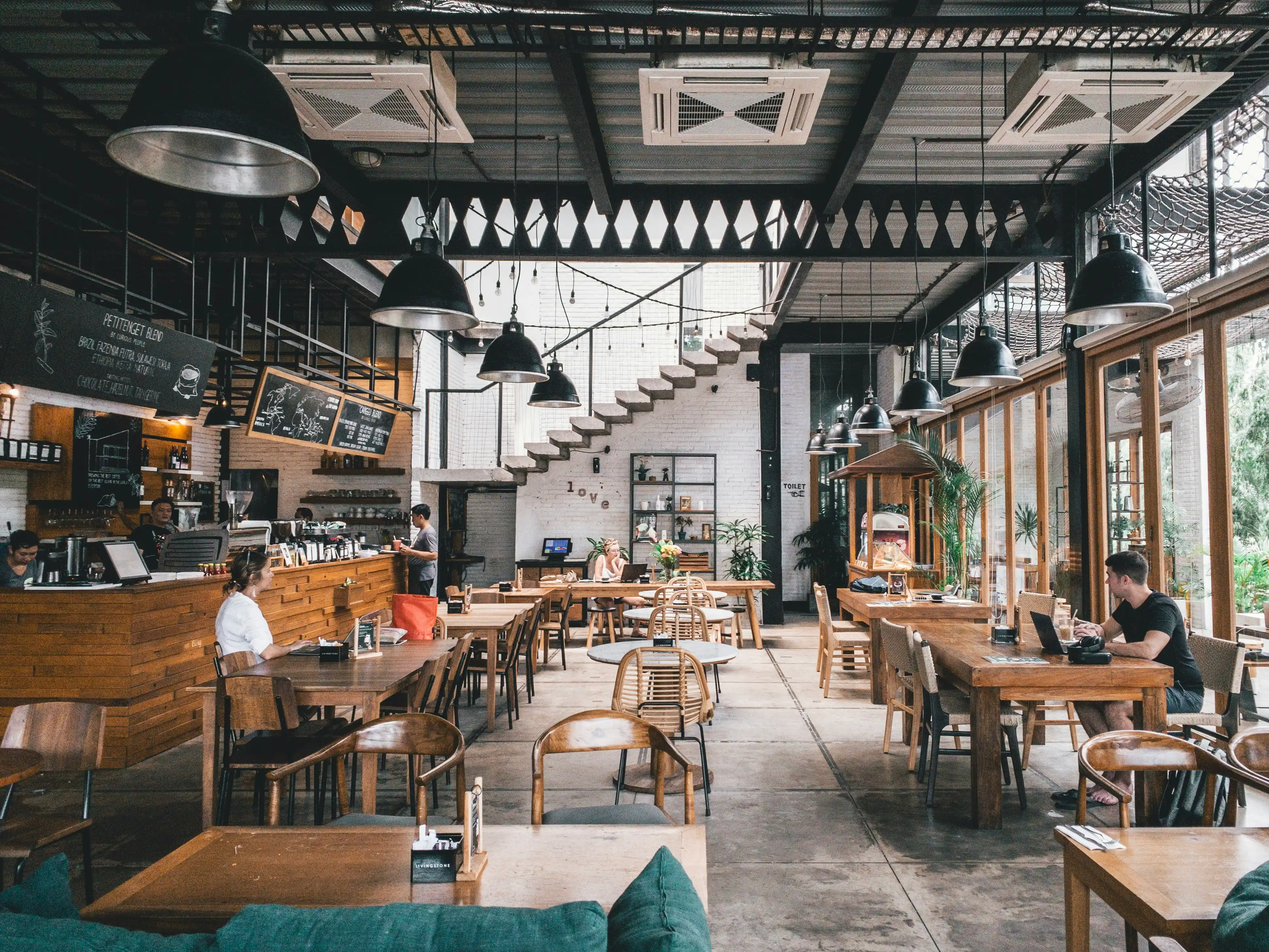
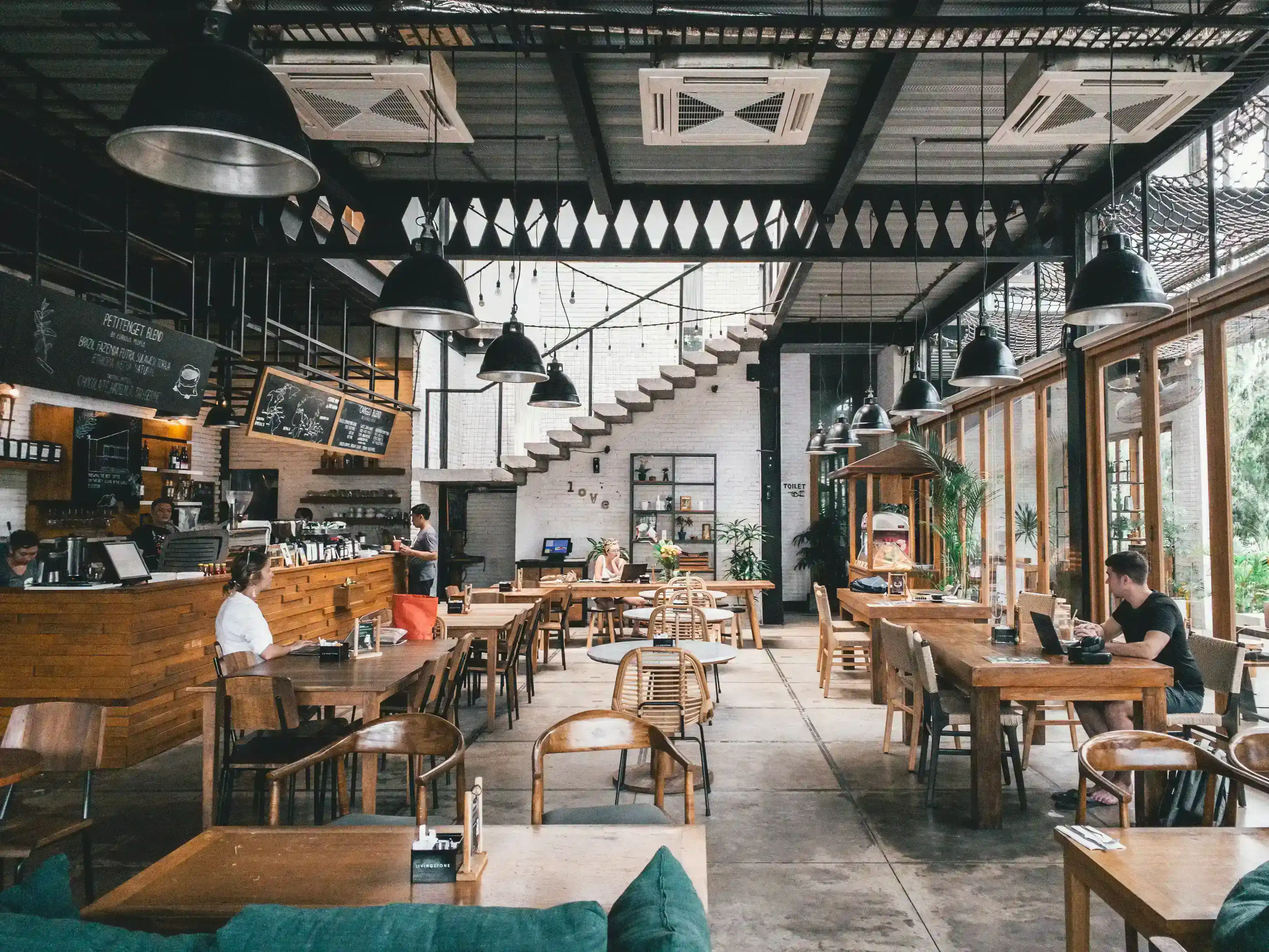
readded compressed hero image

diff --git a/backgroundcode/templates/base.html b/backgroundcode/templates/base.html
@@ -13,9 +13,6 @@
     <link href="https://fonts.googleapis.com/css2?family=Lato:wght@300;700&display=swap" rel="stylesheet">
     <!-- Font Awesome CSS -->
     <link rel="stylesheet" href="https://cdnjs.cloudflare.com/ajax/libs/font-awesome/5.15.3/css/all.min.css">
-    <!-- Bootstrap CSS -->
-    <link href="https://cdn.jsdelivr.net/npm/bootstrap@5.0.1/dist/css/bootstrap.min.css" rel="stylesheet"
-          integrity="sha384-+0n0xVW2eSR5OomGNYDnhzAbDsOXxcvSN1TPprVMTNDbiYZCxYbOOl7+AMvyTG2x" crossorigin="anonymous">
     <!-- Custom CSS -->
     <link rel="stylesheet" href="{% static 'backgroundcode/CSS/style.css' %}">
 </head>
